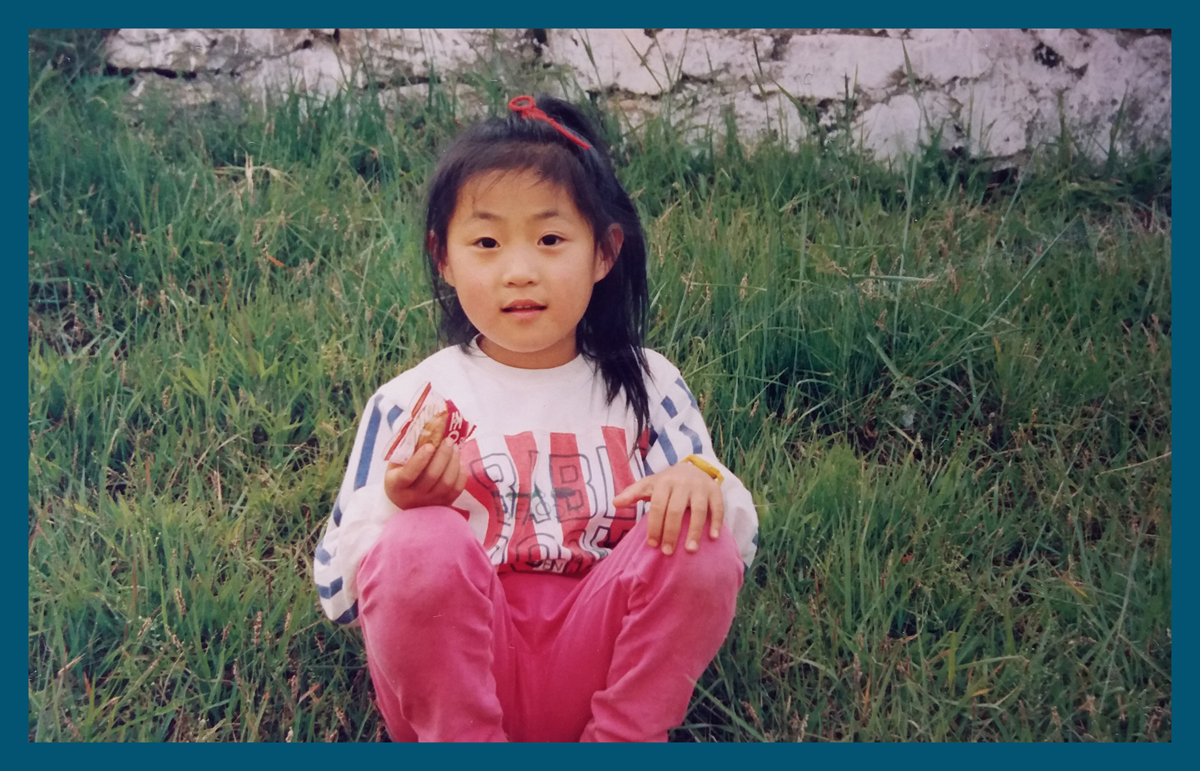
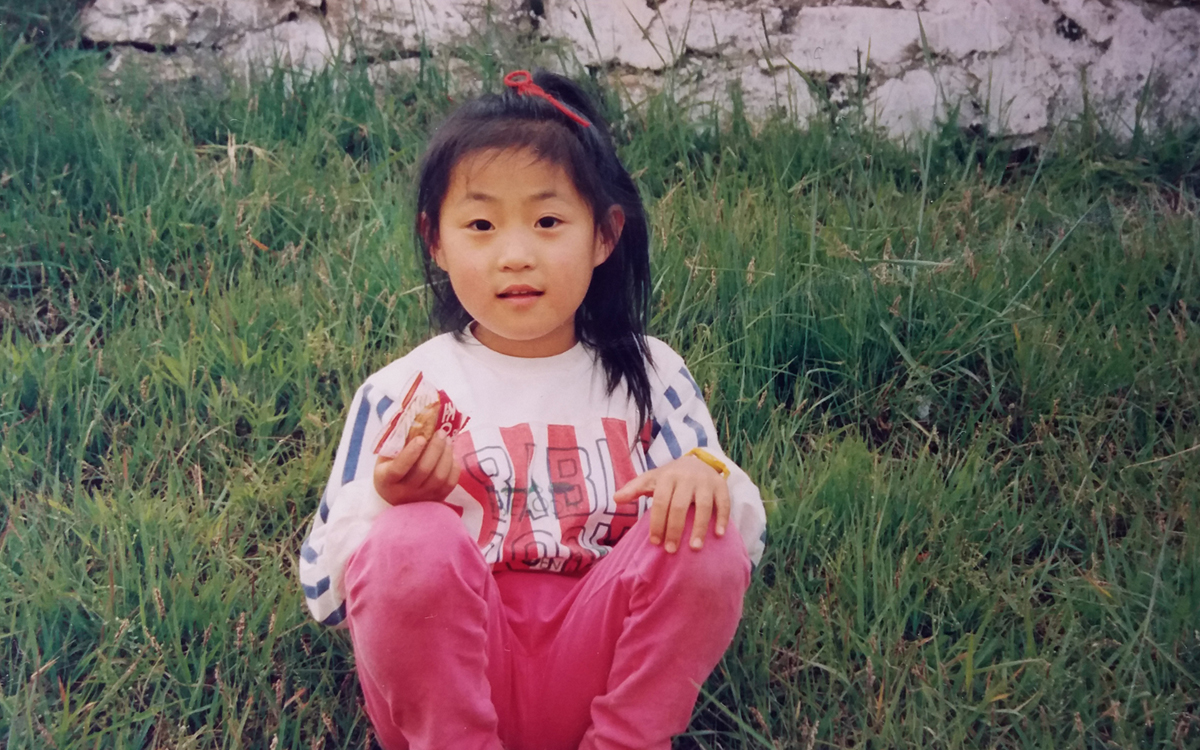
Added a border on image carousel

diff --git a/style.css b/style.css
@@ -257,6 +257,7 @@ nav i {
 	margin: 30px auto 15px;
 	overflow: hidden;
 	position: relative;
+	border: 14px solid #035472;
 	box-shadow: 10px 10px 7px gray;
 }
 
@@ -283,11 +284,11 @@ nav i {
 }
 
 #prevBtn {
-	left: 5%;
+	left: 3%;
 }
 
 #nextBtn {	
-	right: 5%;	
+	right: 3%;	
 }
 
 #prevBtn:hover, #nextBtn:hover {
@@ -306,8 +307,8 @@ nav i {
 	text-decoration: none;	
 	outline: none;
 	position: absolute;
-	top: 8%;
-	left: 5%;
+	top: 6%;
+	left: 4%;
 }
 
 #pauseBtn {
